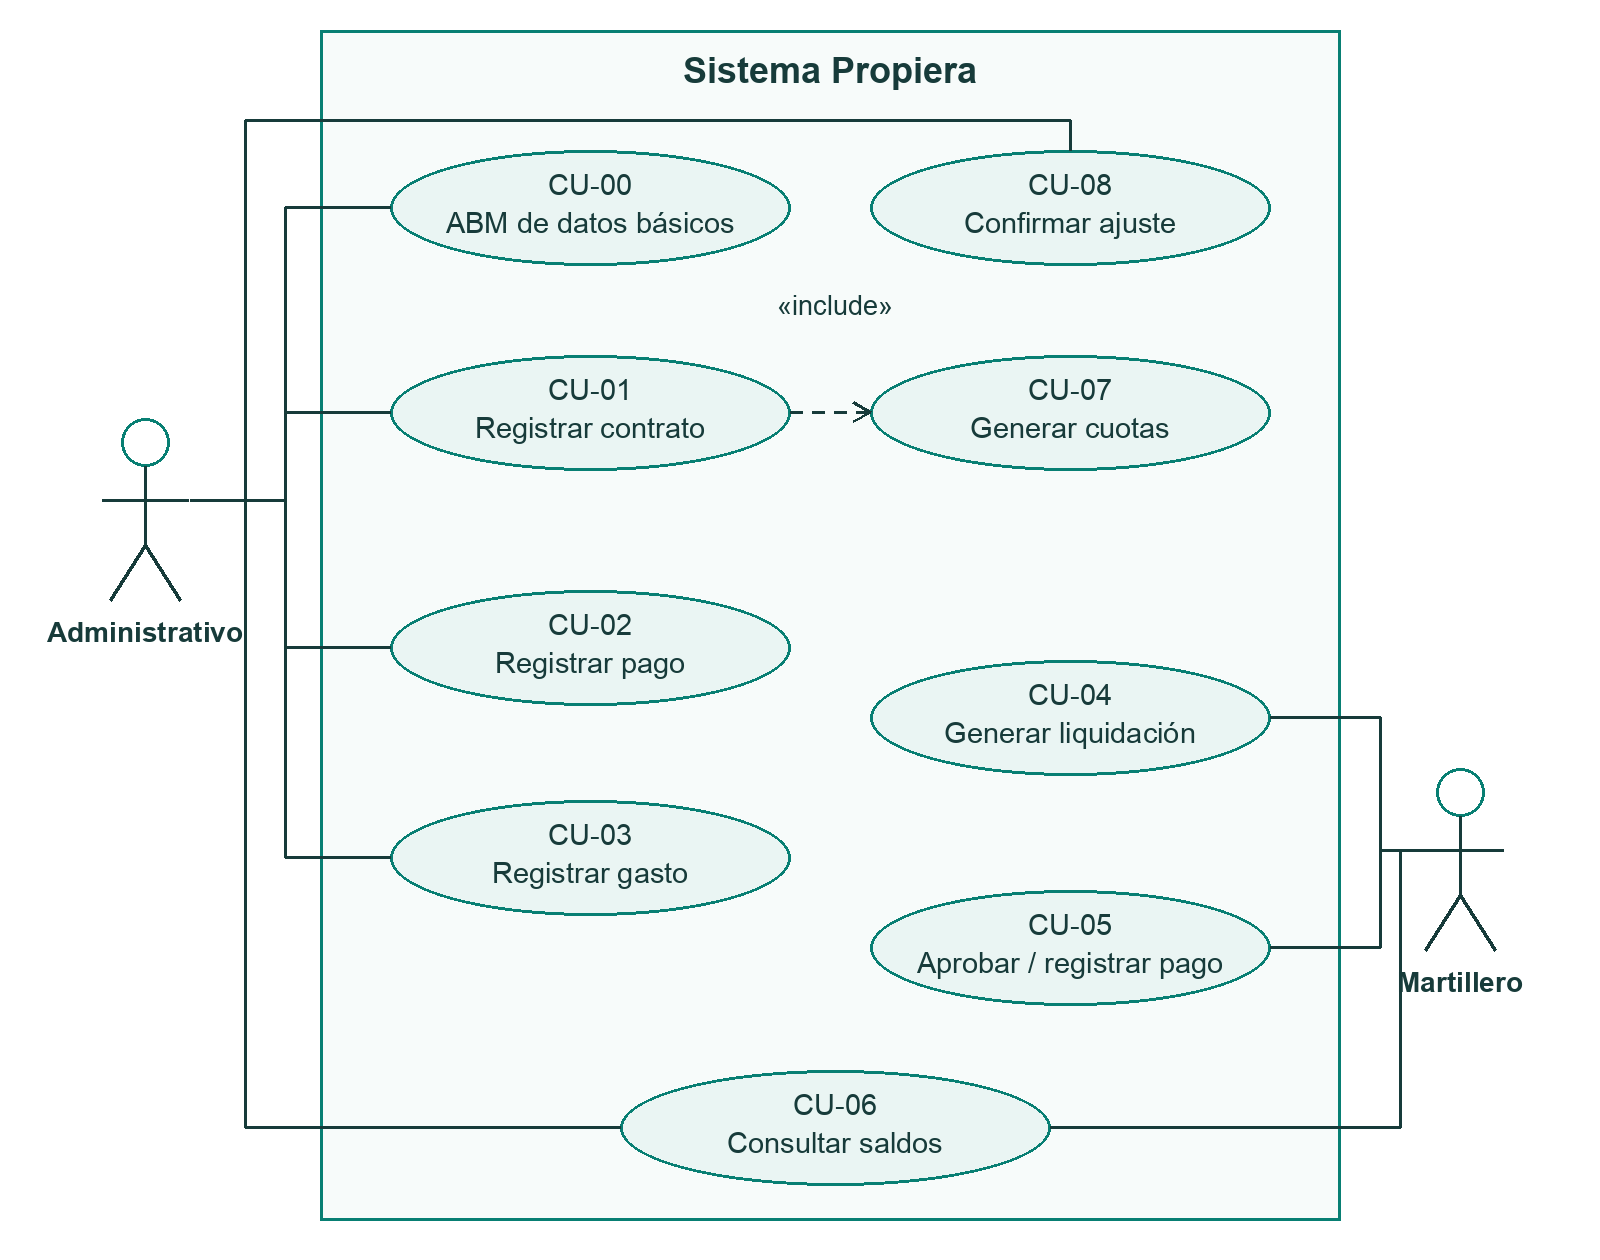
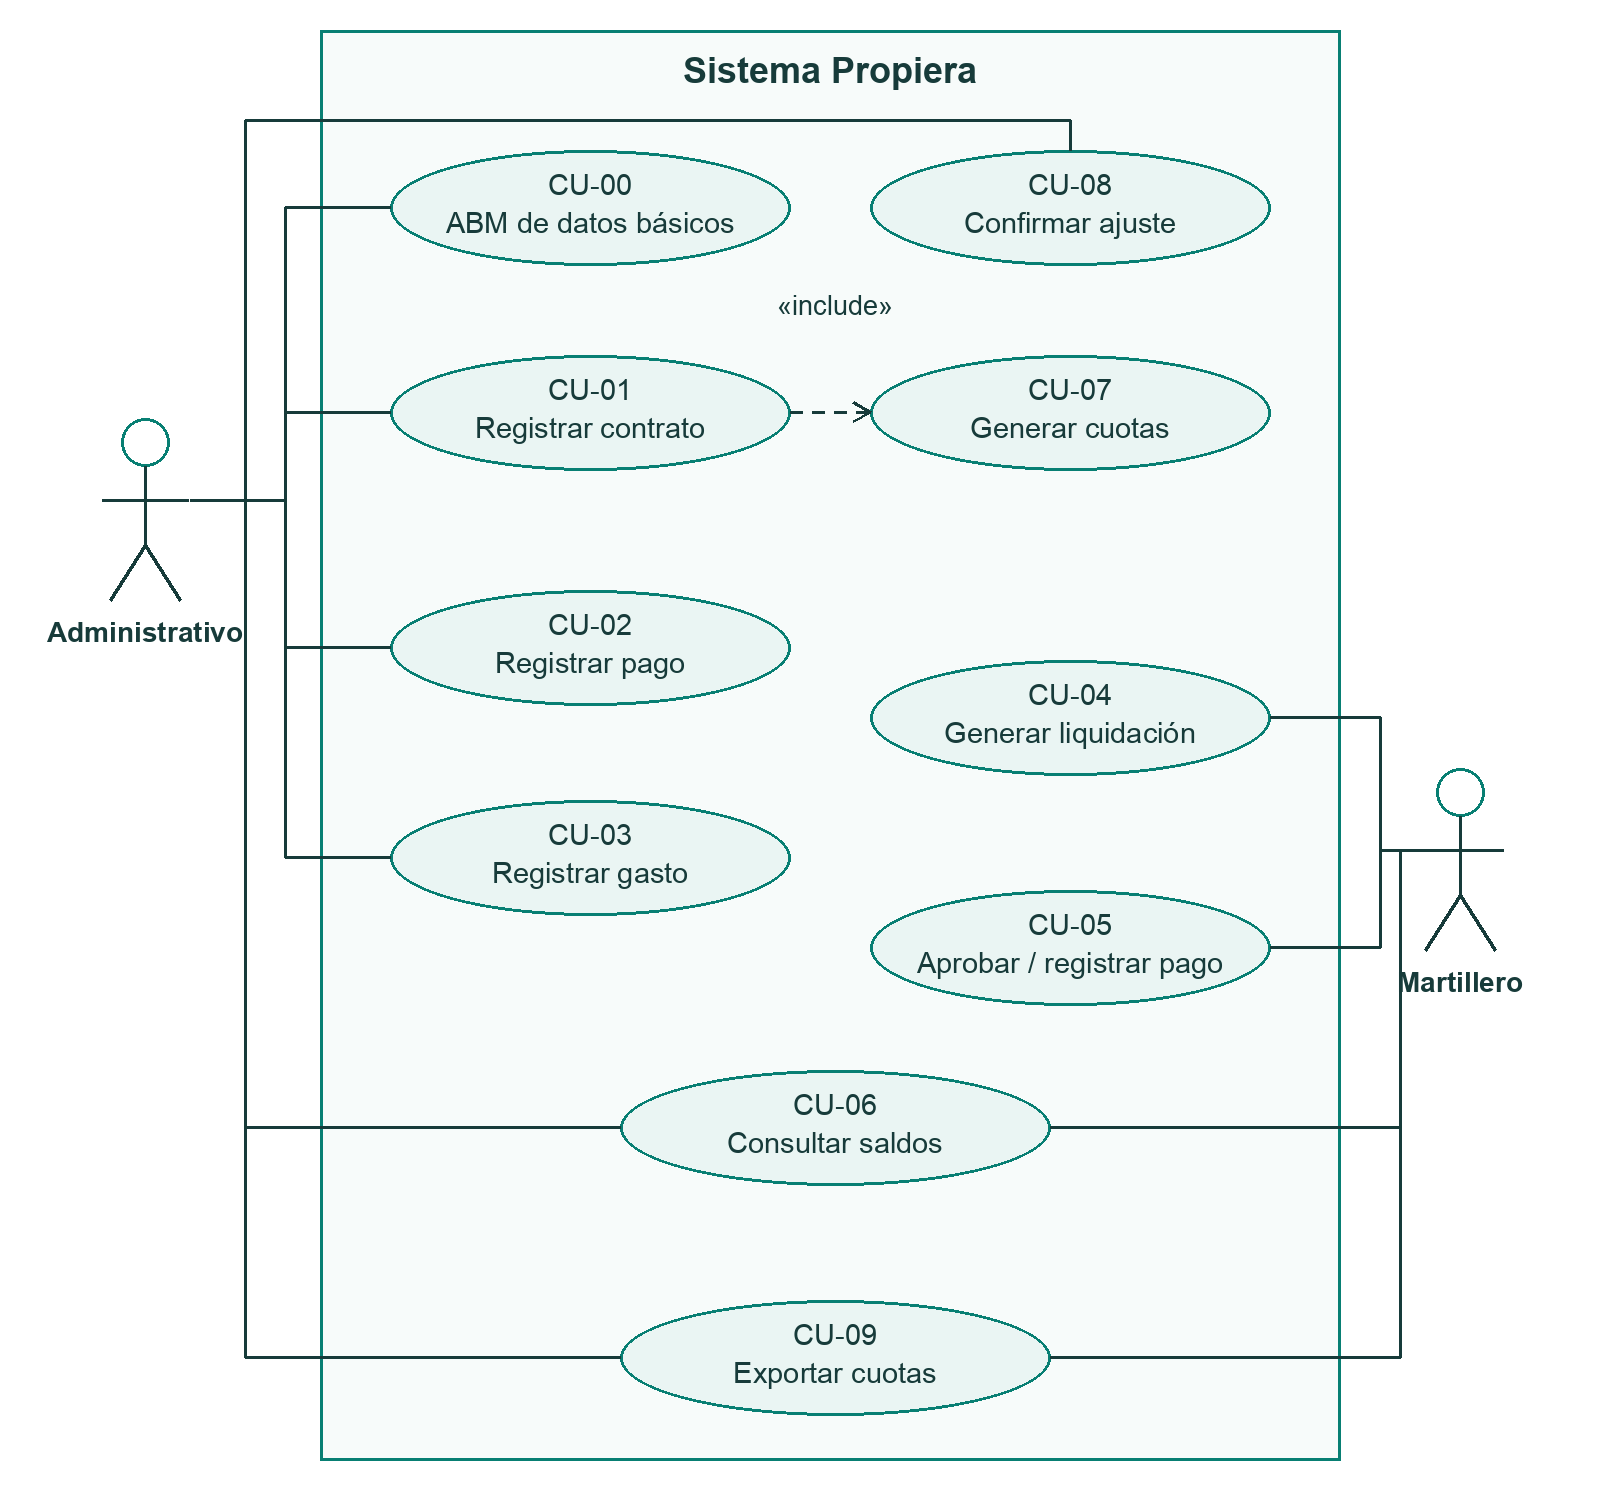
Actualizar documentación técnica y evidencia final de AP4

diff --git a/diagramas/archivos_ap4.py b/diagramas/archivos_ap4.py
@@ -1,0 +1,59 @@
+from generar_ap4 import Diagrama
+
+
+def generar():
+    d = Diagrama('10_archivos_configuracion', 1600, 1320)
+    d.caja(40, 30, 700, 210, 'AlquilerControlador', [
+        '- servicio: AlquilerService', '- exportarCuotas(): void'], 29)
+    d.caja(860, 30, 700, 210, 'ArchivoCuotas', [
+        '+ guardar(destino, contrato, reemplazar): void',
+        '- escribir(salida, contrato): void'], 26)
+    d.linea([(740, 130), (860, 130)], arrow=True)
+    d.caja(40, 360, 700, 210, 'AlquilerService', [
+        '+ consultarContrato(contrato, usuario):', '    EstadoContrato'], 28)
+    d.caja(860, 360, 700, 210, 'EstadoContrato «record»', [
+        'id, propiedad, propietario, inquilino, inicio, fin',
+        'cuotas: List<CuotaContrato>'], 26)
+    d.linea([(390, 240), (390, 360)], arrow=True)
+    d.linea([(740, 465), (860, 465)], dash=True, arrow=True)
+    d.linea([(1210, 240), (1210, 360)], dash=True, arrow=True)
+    d.caja(40, 690, 700, 210, 'AlquilerDao', [
+        '+ estadoContrato(conexion, id): EstadoContrato',
+        '- cuotasContrato(conexion, id): List<CuotaContrato>'], 25)
+    d.caja(860, 690, 700, 210, 'CuotaContrato «record»', [
+        'periodo, vencimiento, importe',
+        'capitalCobrado, moraCobrada, saldo'], 27)
+    d.linea([(390, 570), (390, 690)], arrow=True)
+    d.linea([(1210, 570), (1210, 690)], arrow=True)
+    d.texto(1270, 620, '0..*', 26)
+    d.caja(40, 1030, 700, 210, 'Configuracion', [
+        '+ validar(): void', '+ obligatorio(nombre): String',
+        '+ valor(nombre, predeterminado): String'], 26)
+    d.caja(860, 1030, 700, 210, 'Lectores de configuración', [
+        'PropieraApp · BaseDatos · AutenticacionService',
+        'El entorno tiene prioridad sobre .env.'], 25)
+    d.linea([(860, 1150), (740, 1150)], arrow=True)
+    d.guardar()
+
+    d = Diagrama('11_comunicacion_final', 1600, 1100)
+    d.caja(40, 20, 1520, 270, '«device» Computadora de desarrollo', [
+        '«executionEnvironment» JVM / Java 21+',
+        'PropieraApp · vistas Swing · controladores · servicios · DAO · Connector/J',
+        'Los componentes se comunican mediante llamadas a métodos dentro de Java.'], 29)
+    d.caja(40, 390, 660, 220, '«artifact» .env', [
+        'Configuración local de conexión y acceso.', 'Lectura UTF-8 mediante Configuracion.'], 27)
+    d.caja(900, 390, 660, 220, '«artifact» Estado de cuotas TXT', [
+        'Escritura UTF-8 mediante ArchivoCuotas.', 'Destino elegido por el usuario.'], 27)
+    d.linea([(360, 290), (360, 390)], arrow=True)
+    d.linea([(1230, 290), (1230, 390)], arrow=True)
+    d.caja(310, 800, 980, 220, '«executionEnvironment» Docker / MySQL 8.4', [
+        'Once tablas InnoDB · codificación utf8mb4',
+        'Persistencia de participantes, contratos, cuotas y movimientos.'], 28)
+    d.linea([(800, 290), (800, 800)], arrow=True)
+    d.texto(820, 650, 'JDBC / TCP con TLS', 27)
+    d.texto(820, 695, '127.0.0.1:33316 → 3306', 27)
+    d.guardar()
+
+
+if __name__ == '__main__':
+    generar()

diff --git a/diagramas/secuencias_ap3.py b/diagramas/secuencias_ap3.py
@@ -65,8 +65,9 @@ secuencia('05_secuencia.png', ['formulario:\nFormularioContrato', 'controlador:\
     (0, 1, 'retorno: datos'),
     (1, 1, 'new AltaContrato(...)'),
     (1, 2, 'registrarContrato(alta, usuario)'),
-    (2, 1, 'retorno: id del contrato (detalle en figura 8)'),
+    (2, 1, 'retorno: id del contrato'),
     (1, 4, 'showMessageDialog(ventana, mensaje, ...)'),
+    (1, 0, 'limpiar()'),
     (1, 1, 'actualizar()'),
     (1, 2, 'consultarCuotas(), propiedades(), inquilinos()'),
     (2, 1, 'retorno: listas actualizadas'),
@@ -85,7 +86,7 @@ secuencia('07_secuencia_transaccion.png', ['servicio:\nAlquilerService', 'baseDa
     (0, 4, 'administrativoActivo(...), inquilinoActivo(...)'),
     (0, 4, 'bloquearPropiedad(...), contratoSuperpuesto(...)'),
     (0, 4, 'insertarContrato(...)'),
-    (0, 0, 'generarCuotas(...) — detalle en figura 9'),
+    (0, 0, 'generarCuotas(...)'),
     (0, 3, 'commit()'),
     (0, 3, 'close() al salir del try'),
 ], 'Flujo exitoso. Si falla una validación o escritura dentro de la transacción: rollback() y propagación del error.\nOperacionDao usa BaseDatos para ejecutar las sentencias JDBC. MySQL es el motor de persistencia.')

diff --git a/src/propiera/controlador/CatalogoControlador.java b/src/propiera/controlador/CatalogoControlador.java
@@ -38,7 +38,12 @@ public class CatalogoControlador {
         });
         vista.propiedades().baja().addActionListener(evento -> {
             long id = vista.propiedades().idSeleccionado();
-            if (confirmarBaja()) ejecutar(() -> { servicio.bajaPropiedad(id, usuario); return id; });
+            if (confirmarBaja()) {
+                ejecutar(() -> {
+                    servicio.bajaPropiedad(id, usuario);
+                    return id;
+                });
+            }
         });
     }
 
@@ -49,7 +54,12 @@ public class CatalogoControlador {
         });
         panel.baja().addActionListener(evento -> {
             long id = panel.idSeleccionado();
-            if (confirmarBaja()) ejecutar(() -> { servicio.bajaPersona(tipo, id, usuario); return id; });
+            if (confirmarBaja()) {
+                ejecutar(() -> {
+                    servicio.bajaPersona(tipo, id, usuario);
+                    return id;
+                });
+            }
         });
     }
 

diff --git a/diagramas/generar_ap4.py b/diagramas/generar_ap4.py
@@ -50,8 +50,8 @@ class Diagrama:
         (OUT/(self.nombre+'.svg')).write_text('\n'.join(self.svg+['</svg>']),encoding='utf-8')
 
 def generar():
-    d=Diagrama('02_casos_uso',1600,1260)
-    d.rect((320,30,1340,1220),'#F7FBFA')
+    d=Diagrama('02_casos_uso',1600,1490)
+    d.rect((320,30,1340,1460),'#F7FBFA')
     d.texto(830,50,'Sistema Propiera',36,True,True)
     def actor(x,y,n):
         d.rect((x-24,y-82,x+24,y-34),ellipse=True)
@@ -78,6 +78,10 @@ def generar():
     d.linea([(1420,850),(1400,850),(1400,1127),(1050,1127)])
     d.linea([(790,412),(870,412)],dash=True,arrow=True)
     d.texto(835,290,'«include»',27,center=True)
+    d.rect((620,1300,1050,1415),FILL,True)
+    d.texto(835,1318,'CU-09\nExportar cuotas',29,center=True)
+    d.linea([(245,1127),(245,1357),(620,1357)])
+    d.linea([(1400,1127),(1400,1357),(1050,1357)])
     d.guardar()
 
     d=Diagrama('04_diseno',1600,1300)

diff --git a/src/propiera/persistencia/AlquilerDao.java b/src/propiera/persistencia/AlquilerDao.java
@@ -6,7 +6,6 @@ import java.sql.ResultSet;
 import java.sql.SQLException;
 import java.util.ArrayList;
 import java.util.List;
-import propiera.persistencia.BaseDatos;
 import propiera.modelo.Cuota;
 import propiera.modelo.Opcion;
 import propiera.modelo.EstadoContrato;

diff --git a/src/propiera/persistencia/OperacionDao.java b/src/propiera/persistencia/OperacionDao.java
@@ -6,7 +6,6 @@ import java.sql.PreparedStatement;
 import java.sql.ResultSet;
 import java.sql.SQLException;
 import java.time.LocalDate;
-import propiera.persistencia.BaseDatos;
 import propiera.modelo.AltaContrato;
 
 public class OperacionDao {

diff --git a/README.md b/README.md
@@ -13,7 +13,7 @@ Repositorio: https://github.com/morexlt/s21-spi
 - Consultar cuotas, vencimientos y saldos.
 - Registrar pagos parciales o completos, con capital y mora separados.
 - Confirmar el nuevo importe mensual de un tramo de ajuste.
-- Administrativo registra y consulta. Martillero sólo consulta.
+- Administrativo registra, consulta y exporta. Martillero consulta y exporta.
 - Validar contratos superpuestos, referencias duplicadas y pagos superiores al saldo.
 
 Cada propiedad tiene un propietario. Los datos del propietario se obtienen de la
@@ -52,7 +52,8 @@ En Datos básicos, elegir Propietarios, Propiedades o Inquilinos. Nuevo limpia e
 formulario; seleccionar una fila permite modificar sus datos. Guardar registra
 los cambios. Documento y nombre son obligatorios para las personas; el contacto
 es opcional. La propiedad requiere código, dirección y un propietario activo.
-Los documentos y códigos son únicos, incluso entre registros inactivos.
+El documento es único dentro de cada tipo de persona y el código es único para
+las propiedades. La unicidad incluye los registros inactivos.
 
 Dar de baja marca el registro como inactivo y conserva contratos, cuotas y cobros.
 Para reactivarlo, seleccionarlo, marcar Activo y guardar. Los inactivos no pueden
@@ -82,11 +83,12 @@ antes de moverlo al destino, para conservar el archivo anterior ante un error.
 ```
 src/propiera/
   PropieraApp.java       inicio de la aplicación
+  configuracion/        lectura de .env y variables de entorno
   modelo/               datos del usuario, participantes, propiedades, contratos y cuotas
   vista/                ventanas, formularios y modelo de la tabla Swing
   controlador/          acciones de los botones y coordinación de las vistas
   servicio/             validaciones y operaciones del negocio
-  persistencia/         conexión JDBC y consultas SQL
+  persistencia/         conexión JDBC, consultas SQL y escritura del TXT
 ```
 
 Las vistas no consultan MySQL ni validan reglas del negocio. El controlador
@@ -166,7 +168,7 @@ En una base remota se debe verificar la identidad del servidor con un certificad
 válido. Esta autenticación de demostración no reemplaza cuentas individuales,
 contraseñas almacenadas de forma segura ni auditoría para uso real.
 
-.env y sus copias locales están excluidos de Git y del paquete de entrega.
+.env y sus copias locales están excluidos de Git.
 .env.example se incluye sin contraseñas. En IntelliJ, configurar el directorio
 de trabajo como la carpeta del proyecto y ejecutar propiera.PropieraApp.
 
@@ -238,16 +240,6 @@ sql/06_verificacion_persistencia.sql consulta las cuotas y los cobros del
 escenario de presentación. Su resultado está en evidencia/consulta-presentacion.txt
 y la captura correspondiente en evidencia/pantallas/09_consulta_mysql.png.
 
-## Archivos
-
-Las fuentes están en src/, las pruebas en tests/ y la base en sql/.
-Los diagramas están en diagramas/ y los resultados de las pruebas en evidencia/.
-
-El conector JDBC se descarga en lib/ sólo si falta. El paquete de entrega
-contiene las fuentes, los scripts SQL, las pruebas y los diagramas.
-Las dependencias binarias, los archivos compilados y las credenciales
-no forman parte del paquete.
-
 PruebasCatalogos comprueba altas, modificaciones, bajas lógicas, reactivaciones,
 permisos, duplicados concurrentes, conservación del historial y formularios vacíos.
 Para probar los archivos, usar otra base exclusiva con SQL 01, 02 y 05 y ejecutar:
@@ -264,3 +256,13 @@ Para verificar el lector de configuración sin usar MySQL:
 ```sh
 java -cp 'build/classes' propiera.configuracion.PruebasConfiguracion
 ```
+
+## Archivos
+
+Las fuentes están en src/, las pruebas en tests/ y la base en sql/.
+Los diagramas están en diagramas/ y los resultados de las pruebas en evidencia/.
+
+El conector JDBC se descarga en lib/ sólo si falta. El repositorio
+contiene las fuentes, los scripts SQL, las pruebas y los diagramas.
+Las dependencias binarias, los archivos compilados y las credenciales
+no forman parte del repositorio.
